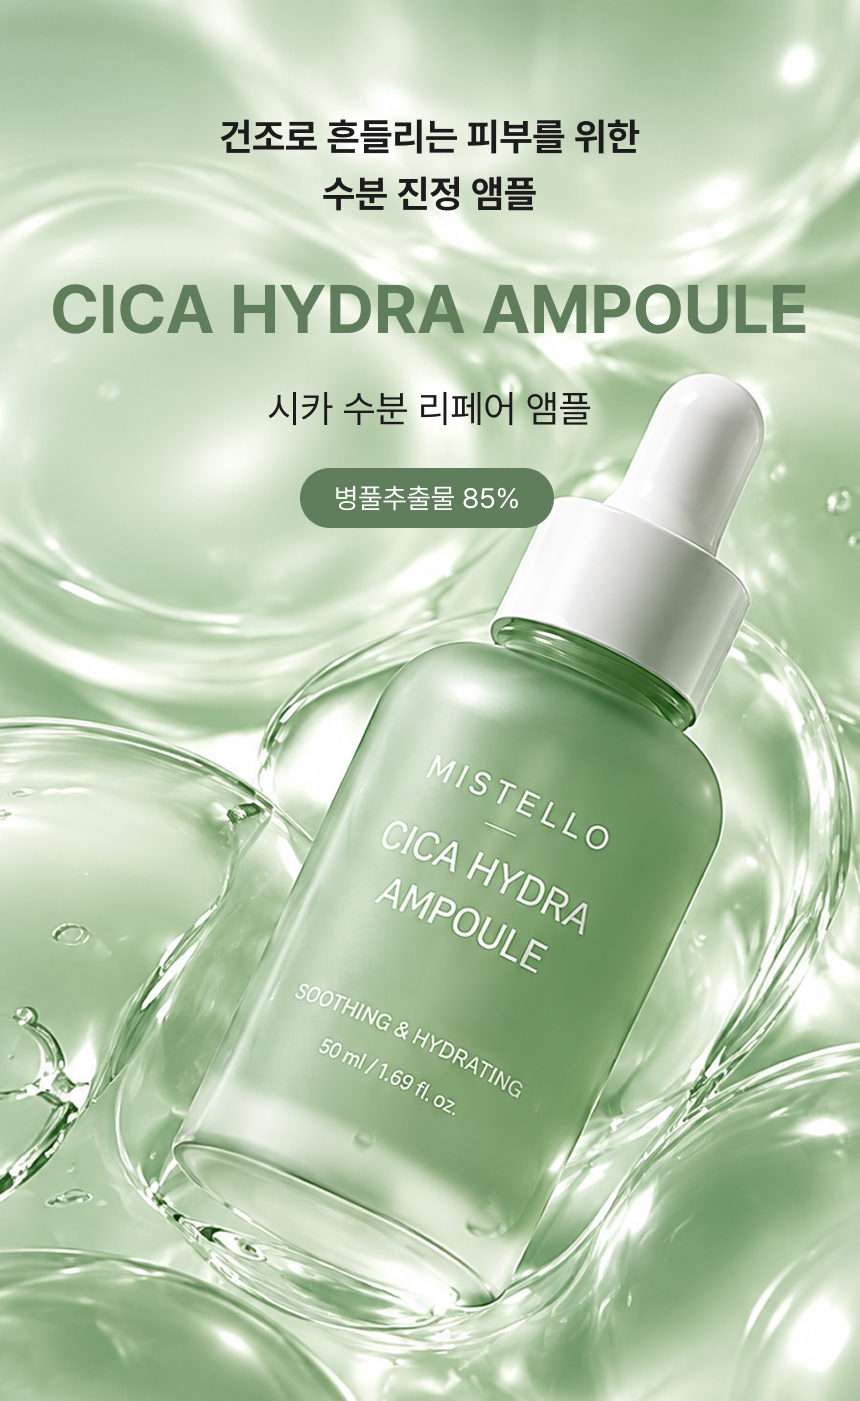
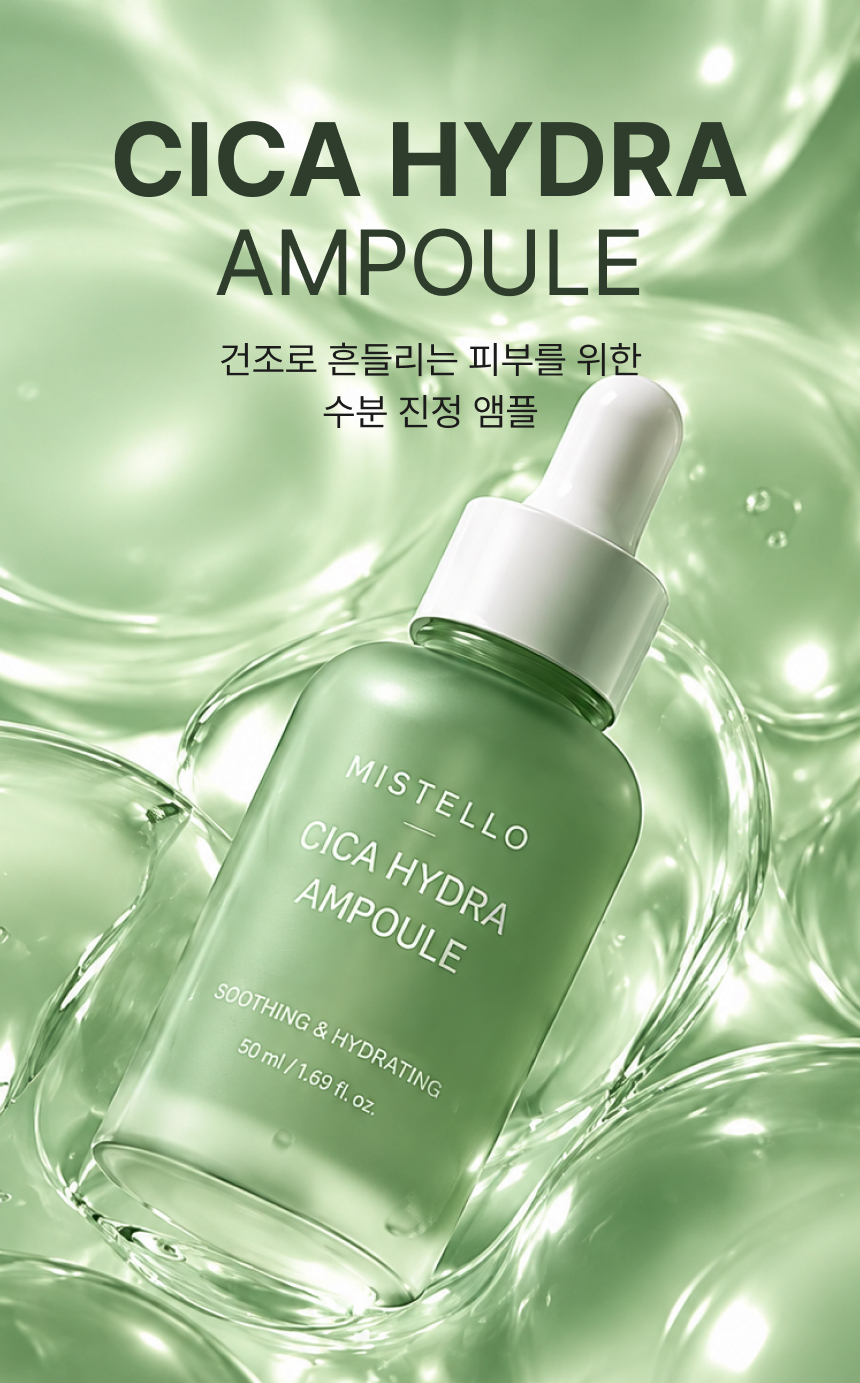
상페 추가

diff --git a/detail-kids-lotion.html b/detail-kids-lotion.html
@@ -1,0 +1,57 @@
+<!doctype html>
+<html lang="ko">
+<head>
+  <meta charset="utf-8" />
+  <meta name="viewport" content="width=device-width, initial-scale=1" />
+  <link rel="icon" href="./assets/favicon/favicon.svg" type="image/svg+xml" />
+  <title>모블리 키즈 로션 상세페이지 디자인 | 정선민</title>
+  <meta name="description" content="아이 피부를 위한 순하고 촉촉한 보습 경험을 따뜻하게 표현한 정선민의 모블리 키즈 로션 상세페이지 디자인입니다." />
+  <meta name="author" content="정선민" />
+  <meta name="robots" content="index, follow" />
+  <meta property="og:type" content="article" />
+  <meta property="og:locale" content="ko_KR" />
+  <meta property="og:site_name" content="정선민 포트폴리오" />
+  <meta property="og:title" content="모블리 키즈 로션 상세페이지 디자인" />
+  <meta property="og:description" content="순한 보습과 즐거운 데일리 케어를 중심으로 구성한 키즈 로션 제품 상세페이지 디자인입니다." />
+  <meta name="twitter:card" content="summary" />
+  <script type="application/ld+json">
+  {
+    "@context": "https://schema.org",
+    "@type": "CreativeWork",
+    "name": "모블리 키즈 로션 상세페이지 디자인",
+    "creator": { "@type": "Person", "name": "정선민" },
+    "inLanguage": "ko-KR"
+  }
+  </script>
+  <link rel="stylesheet" href="./css/fonts.css" />
+  <link rel="stylesheet" href="./css/detail-pages.css" />
+</head>
+<body id="top">
+  <main class="detail-presentation">
+    <a class="detail-presentation__close detail-presentation__close--top" href="./visual-works.html#detail-page-title" aria-label="상세페이지 닫고 Visual Works로 돌아가기"><img src="./assets/icon/detail-close.svg" alt="" /></a>
+    <header class="detail-presentation__header">
+      <p class="detail-presentation__eyebrow">Soft Skin &amp; Happy Days</p>
+      <p class="detail-presentation__subtitle">연약한 아이 피부를 위한 순한 데일리 보습</p>
+      <h1>DETAIL PAGE</h1>
+    </header>
+    <section class="detail-presentation__points" aria-labelledby="points-title">
+      <h2 id="points-title">Design Point</h2>
+      <span class="detail-presentation__divider" aria-hidden="true"></span>
+      <ol>
+        <li><strong>프로젝트 개요 및 기획 의도</strong><p>연약한 아이 피부에 매일 편안하게 사용할 수 있는 키즈 로션의 순한 보습 이미지를 중심으로 상세페이지를 기획했습니다. 보호자가 제품의 특징과 사용 대상을 빠르게 이해할 수 있도록 구성했습니다.</p></li>
+        <li><strong>따뜻하고 친근한 제품 비주얼</strong><p>부드러운 크림 제형과 포근한 패브릭, 캐릭터 패키지를 활용해 순하고 촉촉한 사용감을 표현했습니다. 아이와 보호자 모두에게 편안하게 다가가는 밝고 친근한 인상을 담았습니다.</p></li>
+        <li><strong>정보 구조 설계와 사용자 흐름</strong><p>아이 피부의 보습 고민에서 시작해 제품 특징, 주요 성분, 사용 방법으로 이어지는 흐름을 설계했습니다. 핵심 정보를 짧은 문장과 이미지로 나누어 부담 없이 읽을 수 있도록 했습니다.</p></li>
+        <li><strong>디자인 디테일과 톤앤매너</strong><p>크림 베이지와 부드러운 블루를 중심으로 따뜻하고 깨끗한 분위기를 표현했습니다. 둥근 형태와 여유 있는 레이아웃으로 키즈 제품 특유의 사랑스러움과 신뢰감을 함께 전달했습니다.</p></li>
+      </ol>
+    </section>
+    <div class="detail-presentation__artwork" aria-label="모블리 키즈 로션 상세페이지 전체 이미지">
+      <img src="./assets/folder/detail-page/키즈로션 상세페이지.jpg" alt="모블리 키즈 로션 상세페이지 전체 디자인" />
+    </div>
+    <nav class="detail-presentation__bottom" aria-label="상세페이지 이동">
+      <a class="detail-presentation__top-link" href="#top"><img src="./assets/icon/detail-top.svg" alt="" /><span>맨 위로</span></a>
+      <a class="detail-presentation__bottom-close" href="./visual-works.html#detail-page-title"><img src="./assets/icon/detail-close.svg" alt="" /><span>닫기</span></a>
+    </nav>
+  </main>
+  <script src="./js/detail-pages.js"></script>
+</body>
+</html>

diff --git a/detail-ampoule.html b/detail-ampoule.html
@@ -1,0 +1,57 @@
+<!doctype html>
+<html lang="ko">
+<head>
+  <meta charset="utf-8" />
+  <meta name="viewport" content="width=device-width, initial-scale=1" />
+  <link rel="icon" href="./assets/favicon/favicon.svg" type="image/svg+xml" />
+  <title>시카 수분 앰플 상세페이지 디자인 | 정선민</title>
+  <meta name="description" content="진정과 수분감을 맑고 투명한 비주얼로 표현한 정선민의 시카 수분 앰플 상세페이지 디자인입니다." />
+  <meta name="author" content="정선민" />
+  <meta name="robots" content="index, follow" />
+  <meta property="og:type" content="article" />
+  <meta property="og:locale" content="ko_KR" />
+  <meta property="og:site_name" content="정선민 포트폴리오" />
+  <meta property="og:title" content="시카 수분 앰플 상세페이지 디자인" />
+  <meta property="og:description" content="진정과 수분감을 중심으로 구성한 시카 수분 앰플 제품 상세페이지 디자인입니다." />
+  <meta name="twitter:card" content="summary" />
+  <script type="application/ld+json">
+  {
+    "@context": "https://schema.org",
+    "@type": "CreativeWork",
+    "name": "시카 수분 앰플 상세페이지 디자인",
+    "creator": { "@type": "Person", "name": "정선민" },
+    "inLanguage": "ko-KR"
+  }
+  </script>
+  <link rel="stylesheet" href="./css/fonts.css" />
+  <link rel="stylesheet" href="./css/detail-pages.css" />
+</head>
+<body id="top">
+  <main class="detail-presentation">
+    <a class="detail-presentation__close detail-presentation__close--top" href="./visual-works.html#detail-page-title" aria-label="상세페이지 닫고 Visual Works로 돌아가기"><img src="./assets/icon/detail-close.svg" alt="" /></a>
+    <header class="detail-presentation__header">
+      <p class="detail-presentation__eyebrow">Soothing Care &amp; Deep Hydration</p>
+      <p class="detail-presentation__subtitle">민감한 피부를 위한 진정 &amp; 수분 케어</p>
+      <h1>DETAIL PAGE</h1>
+    </header>
+    <section class="detail-presentation__points" aria-labelledby="points-title">
+      <h2 id="points-title">Design Point</h2>
+      <span class="detail-presentation__divider" aria-hidden="true"></span>
+      <ol>
+        <li><strong>프로젝트 개요 및 기획 의도</strong><p>건조로 예민해진 피부를 편안하게 진정시키고 수분을 채워 주는 시카 앰플의 특징을 중심으로 상세페이지를 기획했습니다. 제품을 처음 보는 순간부터 핵심 효능을 직관적으로 이해할 수 있도록 구성했습니다.</p></li>
+        <li><strong>수분감을 강조한 제품 비주얼</strong><p>투명한 제형과 물결, 빛의 반사를 활용해 촉촉하고 산뜻한 사용감을 시각화했습니다. 시카를 연상시키는 그린 컬러로 진정 케어의 이미지를 일관되게 전달합니다.</p></li>
+        <li><strong>정보 구조 설계와 사용자 흐름</strong><p>피부 고민에서 시작해 주요 성분과 효능, 사용감, 사용 방법으로 이어지는 정보 순서를 설계했습니다. 핵심 메시지와 근거 정보를 단계적으로 배치해 제품의 장점을 쉽게 확인할 수 있도록 했습니다.</p></li>
+        <li><strong>디자인 디테일과 톤앤매너</strong><p>맑은 그린과 화이트 컬러, 넓은 여백으로 깨끗하고 신뢰감 있는 스킨케어 무드를 표현했습니다. 부드러운 곡선과 투명한 소재감을 활용해 촉촉한 제품 이미지를 완성했습니다.</p></li>
+      </ol>
+    </section>
+    <div class="detail-presentation__artwork" aria-label="시카 수분 앰플 상세페이지 전체 이미지">
+      <img src="./assets/folder/detail-page/앰플상세페이지.jpg" alt="시카 수분 앰플 상세페이지 전체 디자인" />
+    </div>
+    <nav class="detail-presentation__bottom" aria-label="상세페이지 이동">
+      <a class="detail-presentation__top-link" href="#top"><img src="./assets/icon/detail-top.svg" alt="" /><span>맨 위로</span></a>
+      <a class="detail-presentation__bottom-close" href="./visual-works.html#detail-page-title"><img src="./assets/icon/detail-close.svg" alt="" /><span>닫기</span></a>
+    </nav>
+  </main>
+  <script src="./js/detail-pages.js"></script>
+</body>
+</html>

diff --git a/visual-works.html b/visual-works.html
@@ -116,6 +116,14 @@
           <span class="detail-card__media detail-card__media--beadphones"><img src="./assets/folder/detail-page/beadphones-thumbnail.jpg" alt="헤드폰 상세페이지 디자인 미리보기" loading="lazy" /><span class="detail-card__overlay">VIEW <img src="./assets/icon/akar-icons_arrow-up-right.svg" alt="" /></span></span>
             <span class="detail-card__caption">HEADPHONES <span>상세페이지 작업 <img src="./assets/icon/akar-icons_arrow-up-right.svg" alt="" /></span></span>
           </a>
+          <a class="detail-card" href="./detail-ampoule.html" aria-label="시카 수분 앰플 상세페이지 작업 열기">
+            <span class="detail-card__media detail-card__media--ampoule"><img src="./assets/folder/detail-page/ampoule-thumbnail.jpg" alt="시카 수분 앰플 상세페이지 디자인 미리보기" loading="lazy" /><span class="detail-card__overlay">VIEW <img src="./assets/icon/akar-icons_arrow-up-right.svg" alt="" /></span></span>
+            <span class="detail-card__caption">CICA HYDRA AMPOULE <span>상세페이지 작업 <img src="./assets/icon/akar-icons_arrow-up-right.svg" alt="" /></span></span>
+          </a>
+          <a class="detail-card" href="./detail-kids-lotion.html" aria-label="모블리 키즈 로션 상세페이지 작업 열기">
+            <span class="detail-card__media detail-card__media--kids-lotion"><img src="./assets/folder/detail-page/모블리 로션.jpg" alt="모블리 키즈 로션 상세페이지 디자인 미리보기" loading="lazy" /><span class="detail-card__overlay">VIEW <img src="./assets/icon/akar-icons_arrow-up-right.svg" alt="" /></span></span>
+            <span class="detail-card__caption">MOBBLY KIDS LOTION <span>상세페이지 작업 <img src="./assets/icon/akar-icons_arrow-up-right.svg" alt="" /></span></span>
+          </a>
         </div>
         <button class="detail-carousel__arrow" type="button" data-detail-next aria-label="다음 상세페이지 보기"><img src="./assets/icon/bi_arrow-right-circle-fill.svg" alt="" /></button>
       </div>

diff --git a/css/subpages.css b/css/subpages.css
@@ -177,6 +177,12 @@ img { display: block; max-width: 100%; }
 .detail-card__media--beadphones {
   aspect-ratio: 432 / 803;
 }
+.detail-card__media--ampoule {
+  aspect-ratio: 860 / 1383;
+}
+.detail-card__media--kids-lotion {
+  aspect-ratio: 860 / 1536;
+}
 .detail-card__overlay { position: absolute; inset: 0; z-index: 1; width: 100%; height: 100%; display: flex; align-items: center; justify-content: center; gap: .04em; background: rgb(0 0 0 / 62%); color: #fff; font-family: 'Pretendard', sans-serif; font-size: clamp(20px, 1.7vw, 28px); font-weight: 600; opacity: 0; transition: opacity .18s ease; }
 .detail-card__overlay img { width: 1.35em; height: 1.25em; margin-inline: -.2em; filter: invert(1); }
 .detail-card:hover .detail-card__overlay,
